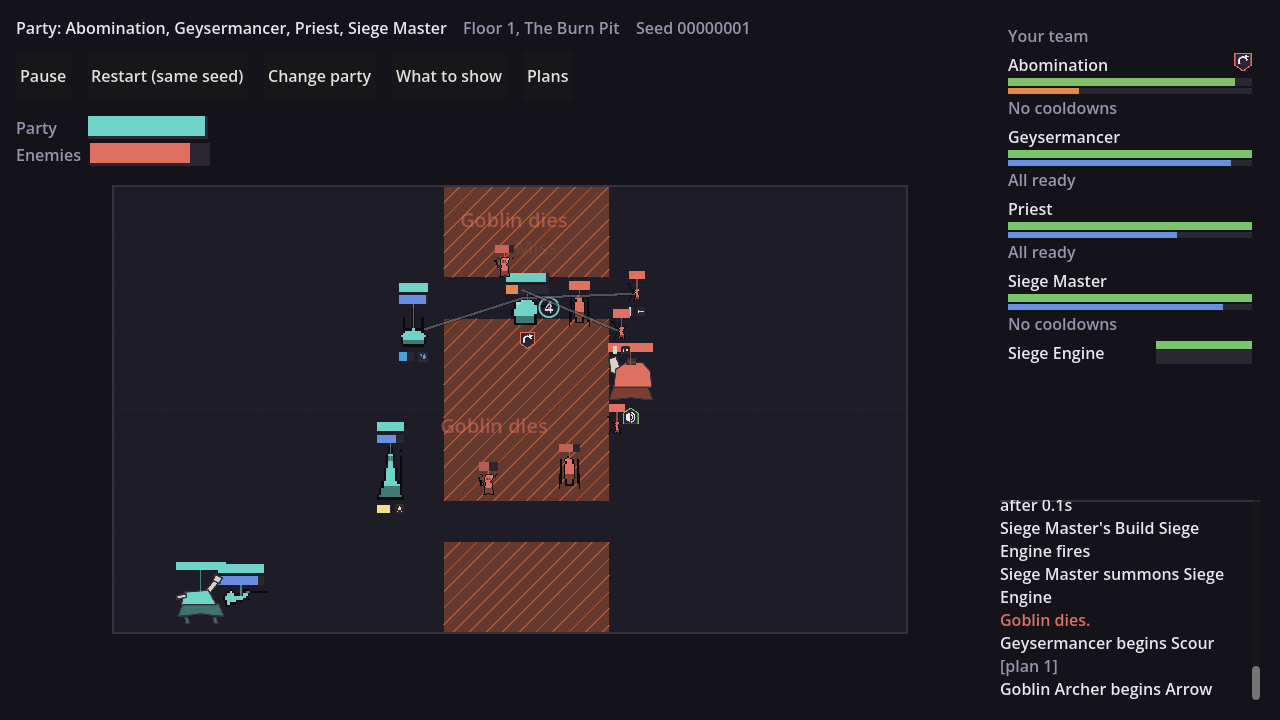
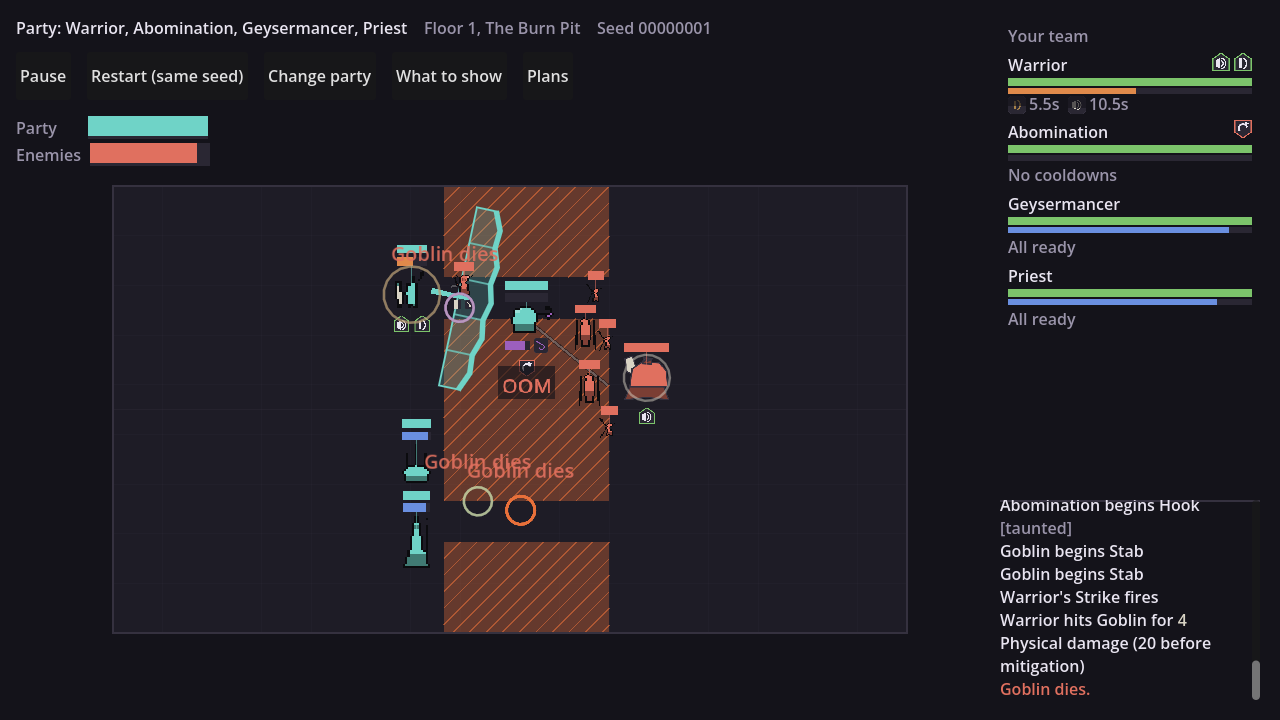
The contact sheet is two fights now, and PLAYING.md said one
Also the screenshots LogFilterShot and TogglesProbe regenerate, taken
from the committed state of both tools.

Agent: sable
Claude-Session: https://claude.ai/code/session_012CA6Ya48XidKxvc7sAbAL7

diff --git a/PLAYING.md b/PLAYING.md
@@ -139,5 +139,5 @@ histogram, and what the win cost the party as a percentage of its own health.
 That last column is the one you asked for, and it is what the balance was
 finally steered by.
 
-`Tools/preview/fight_sheet.png` is six frames of one real fight, regenerated
-after every merge.
+`Tools/preview/fight_sheet.png` is six frames of each of two real fights, one
+per party, so every class is in it. Regenerated after every merge.
